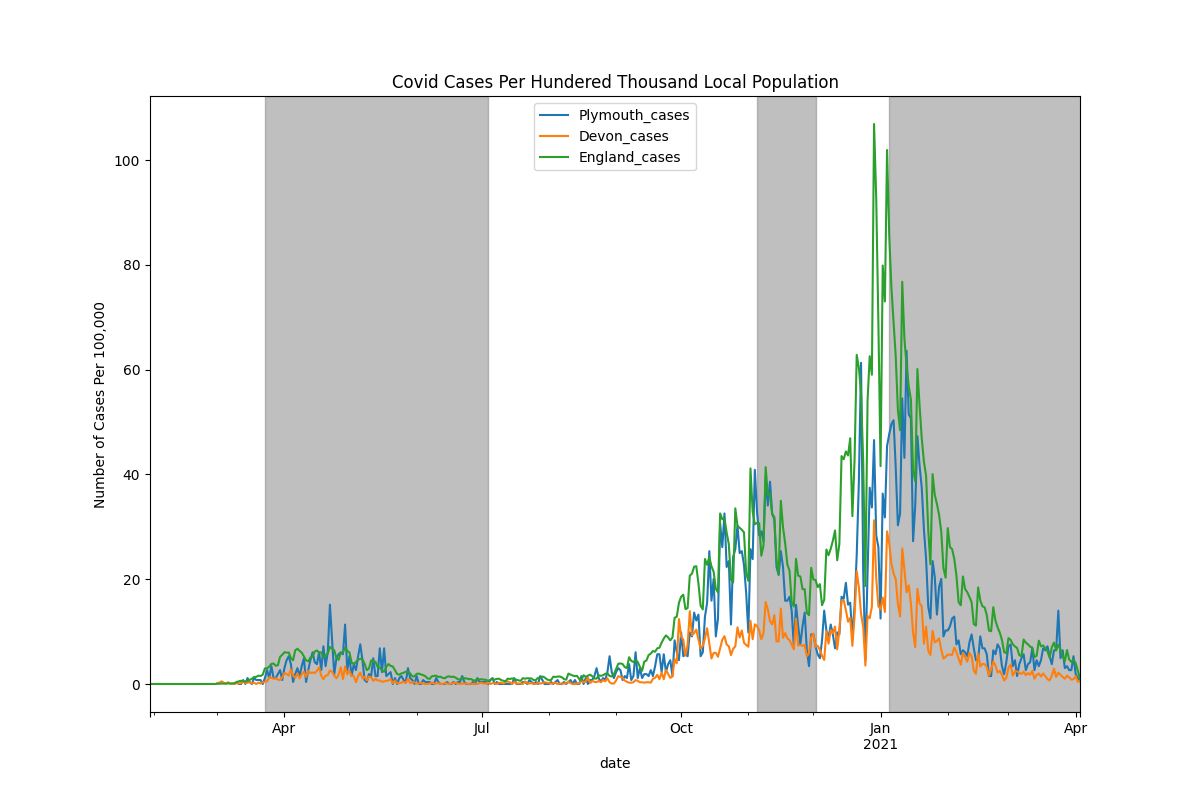
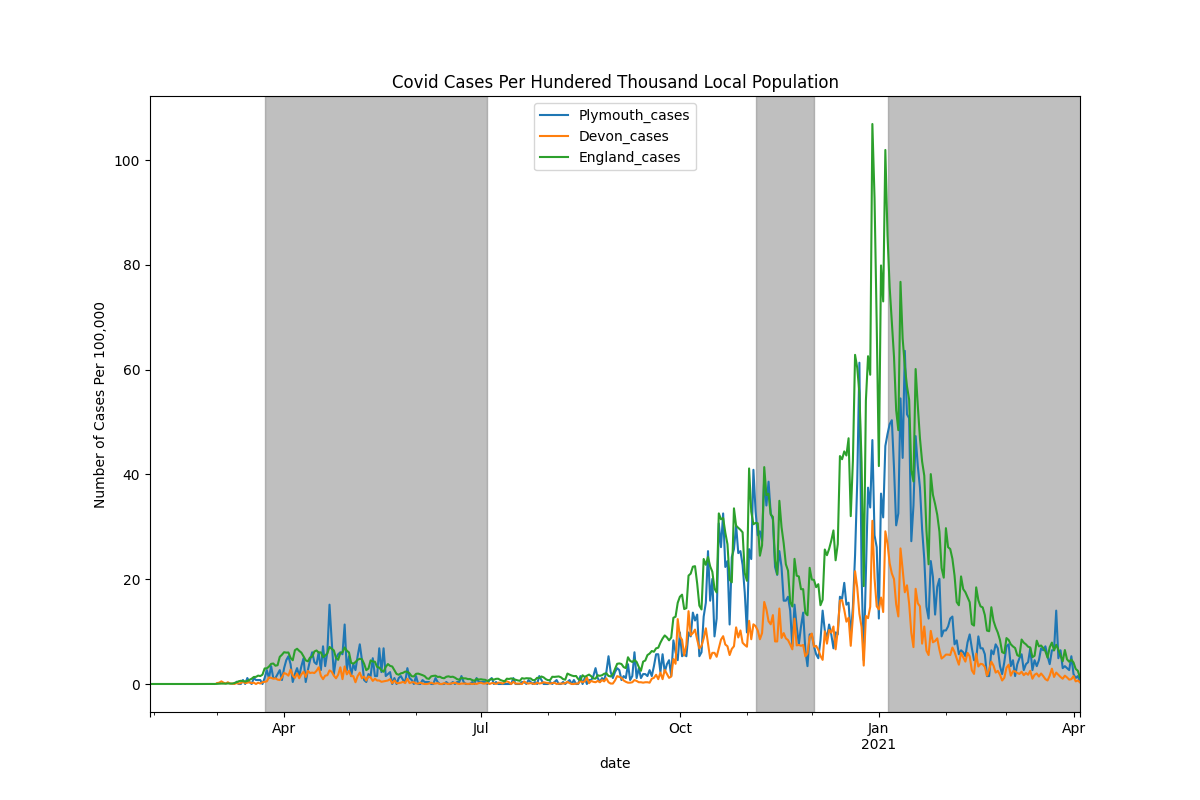
update-data

Changed region(s): [[0.2158, 0.1562, 0.8942, 0.875], [0.7092, 0.9062, 0.74, 0.9375], [0.555, 0.9062, 0.5858, 0.9375]]

diff --git a/index.md b/index.md
@@ -7,4 +7,4 @@ Grey sections are used to identify national lockdowns, of various strengths.
 ![Covid Rates Per 100000](images/plymouth_covid_graph_pht.png "Plymouth Covid Graph Per 100000 ")
 
 
-Last updated on: 05 April 2021
+Last updated on: 06 April 2021
